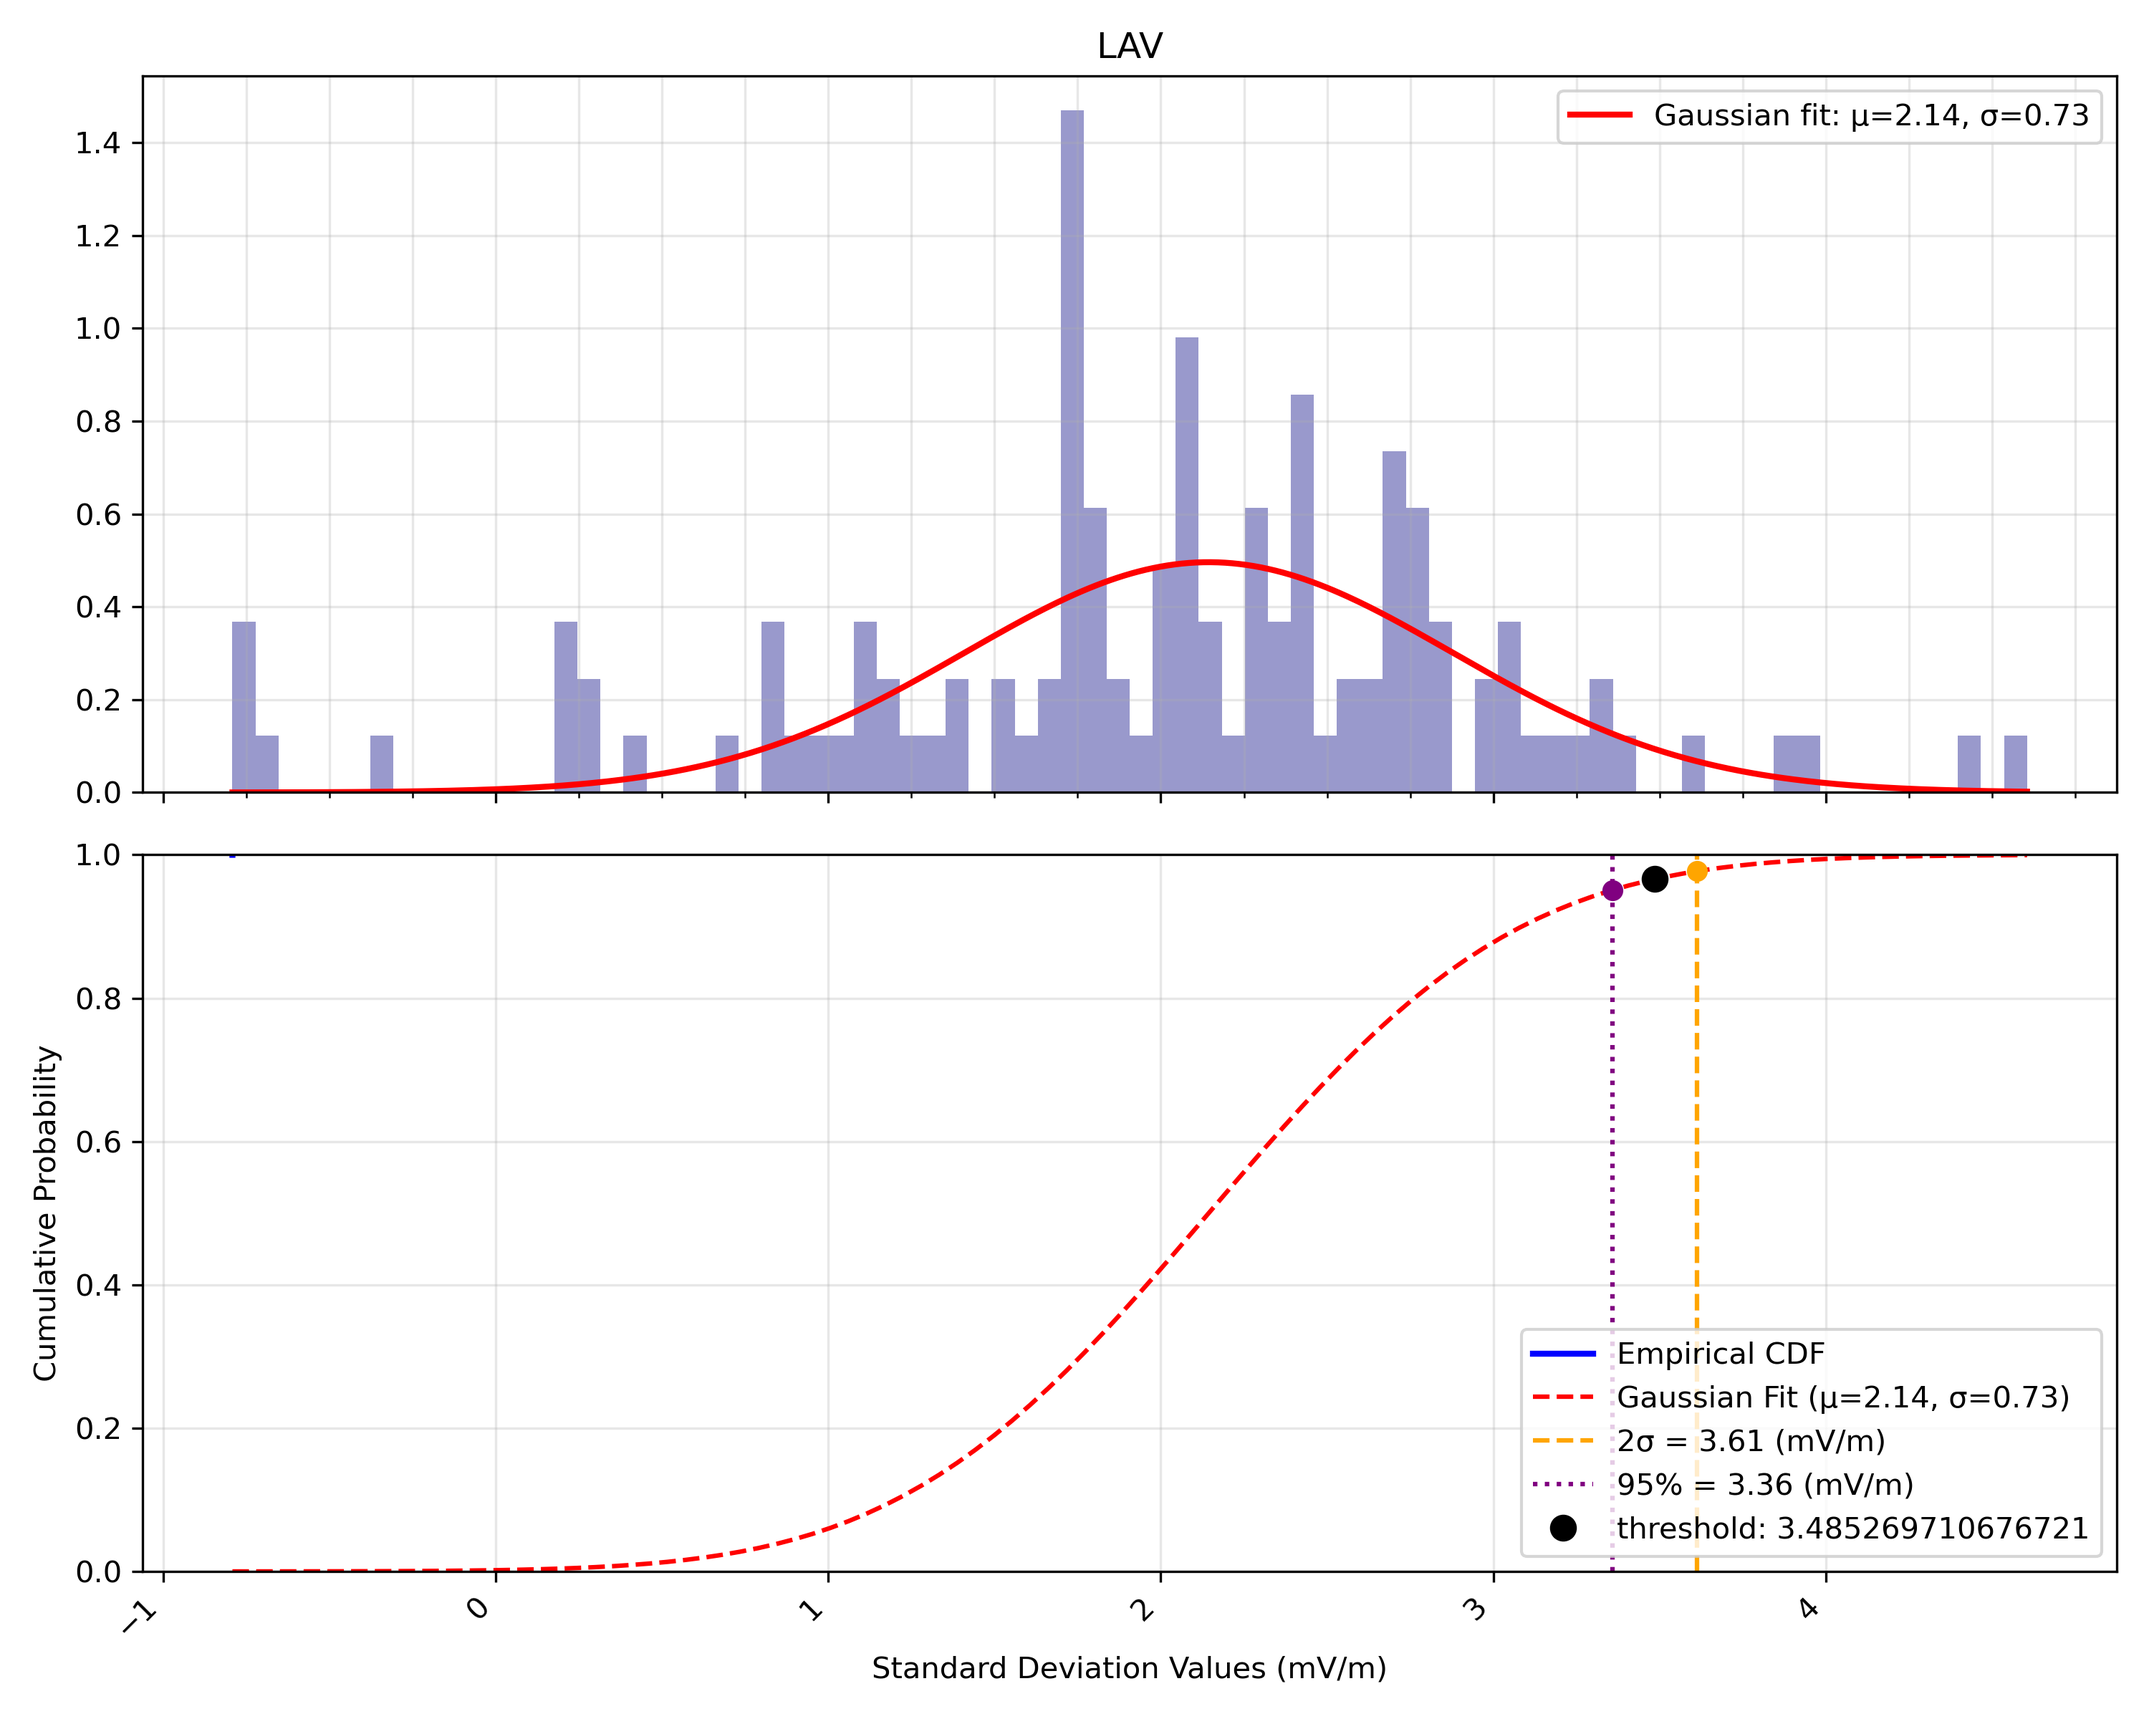
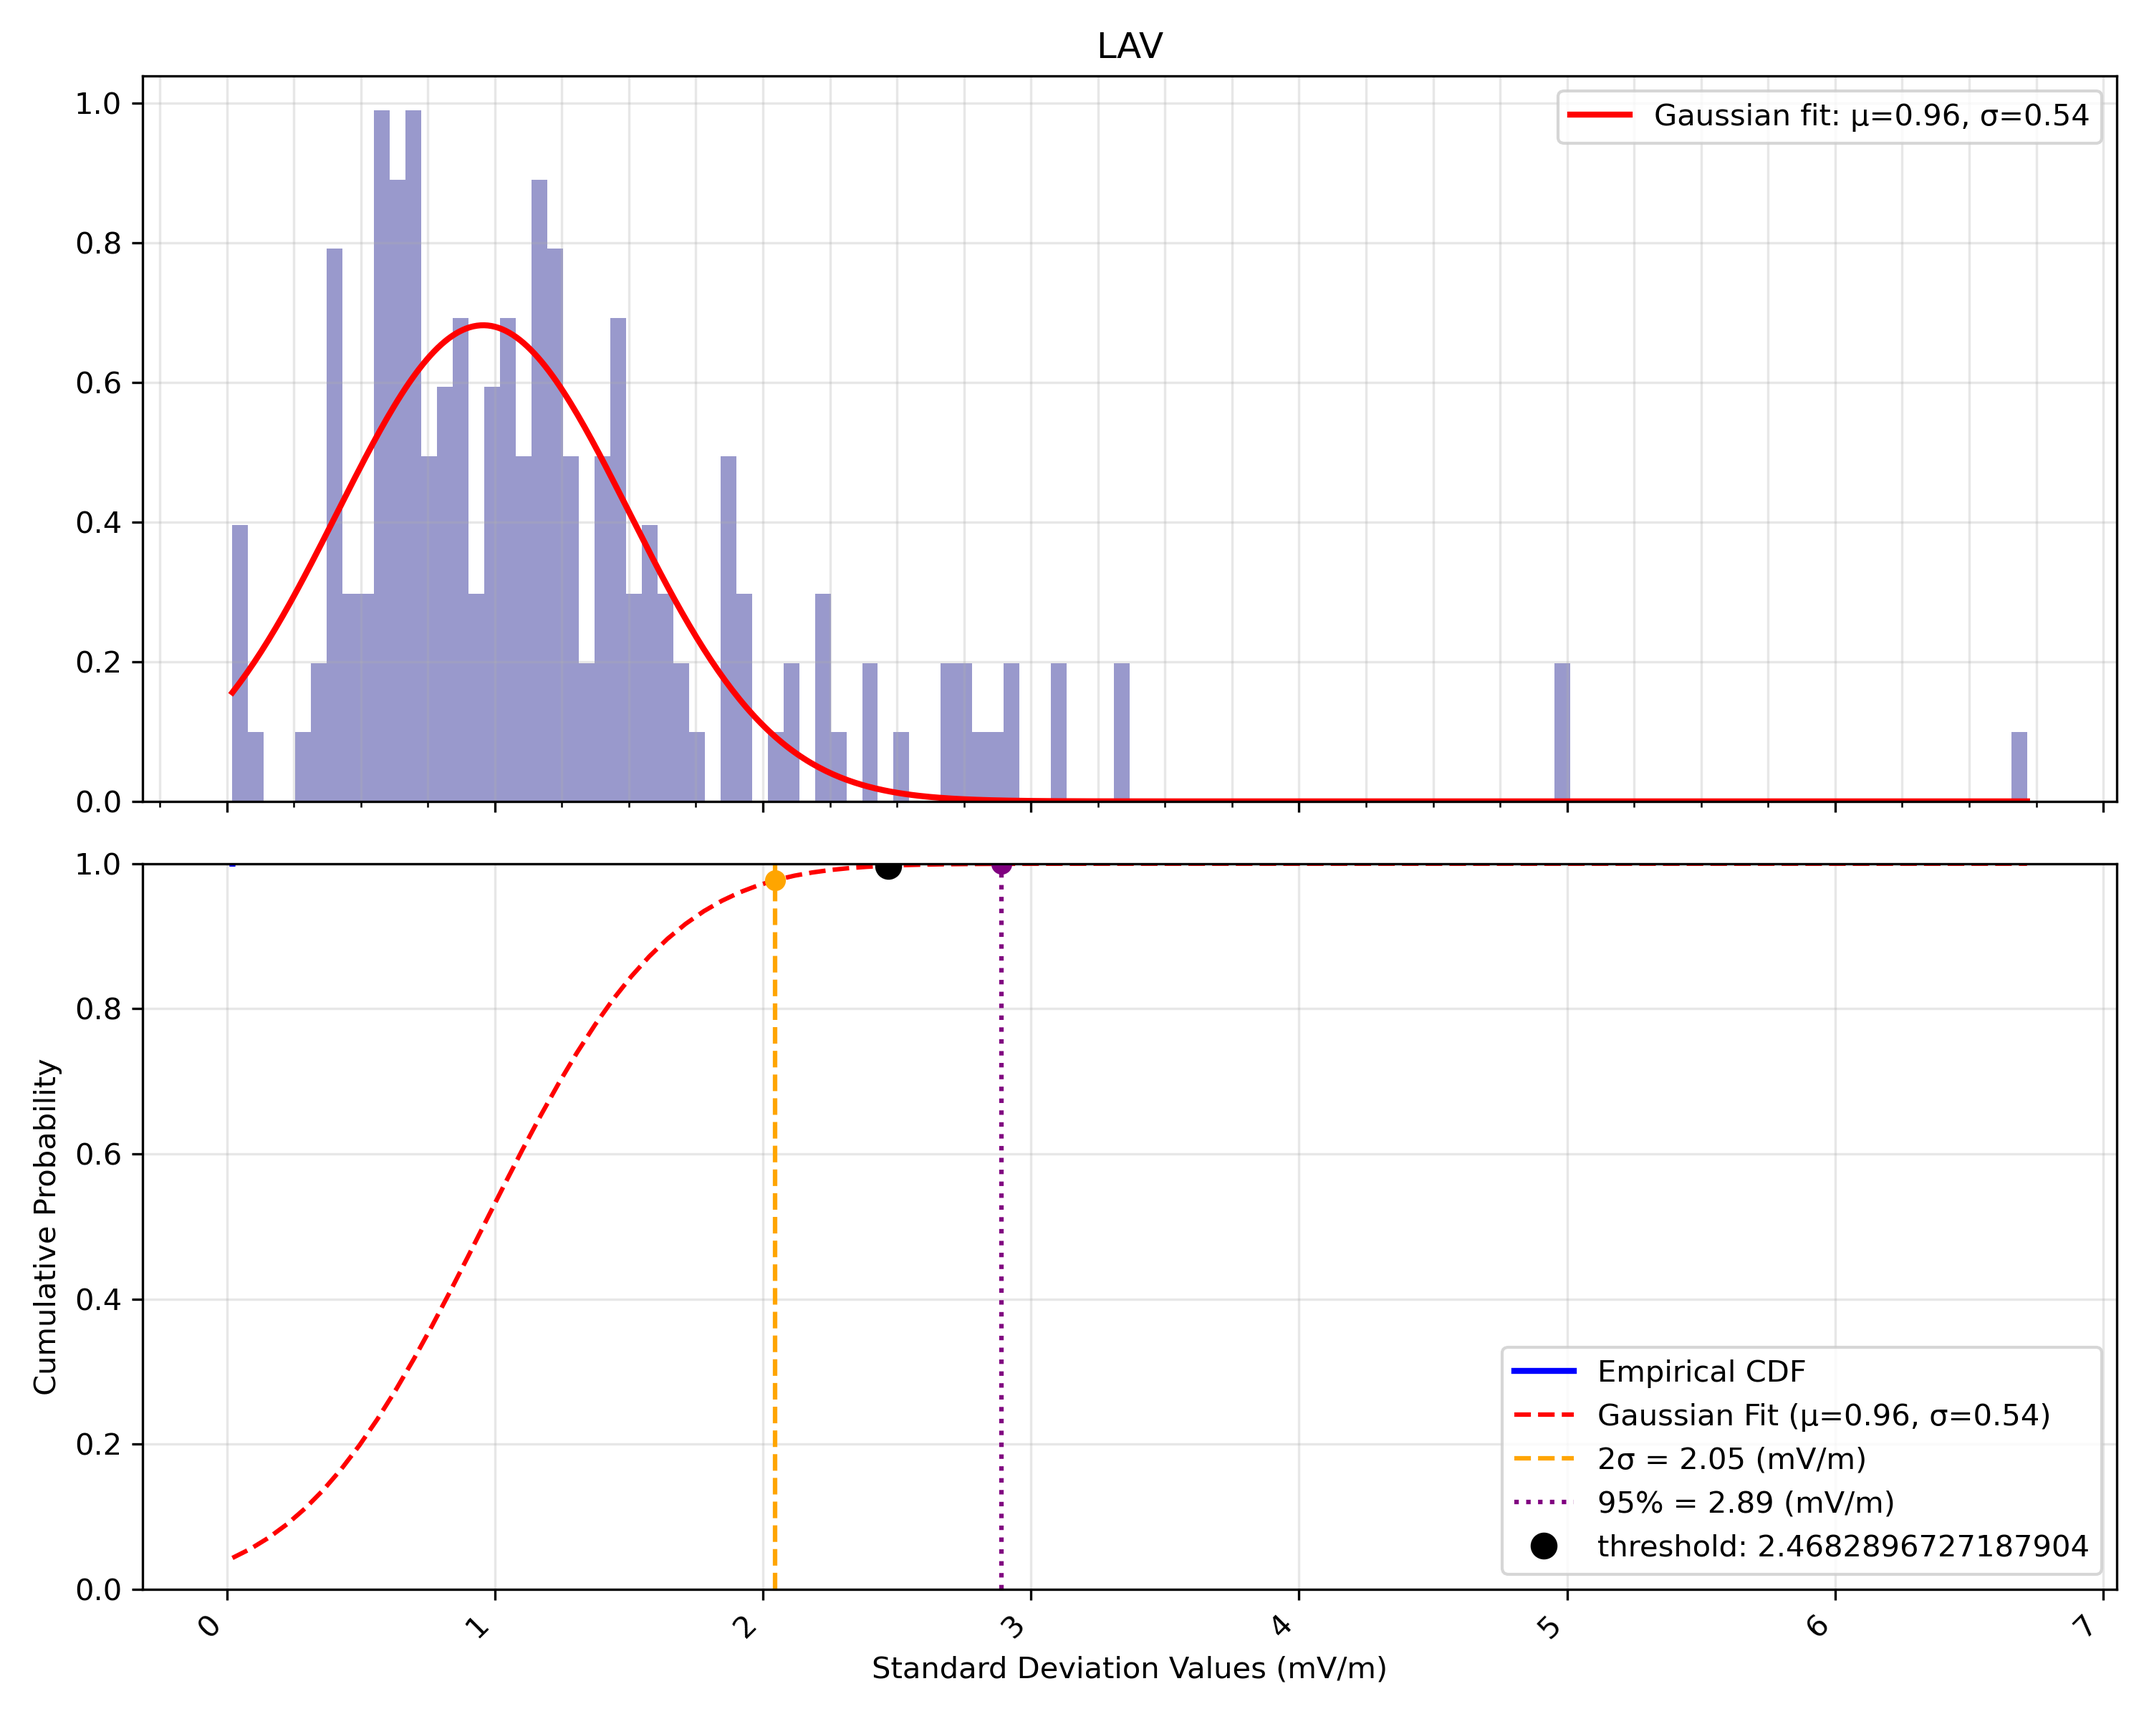
se comenzó a actualizar hacia GPD. Se cambiara a rama experimental

diff --git a/gic_process/gic_ev.py b/gic_process/gic_ev.py
@@ -159,7 +159,16 @@ if len(clicked_dates) >= 2:
                     (stat_dir[station].index <= fmt_end)
             zoom_data[station] = stat_dir[station][mask]
             
-            resampled_data = zoom_data[station].resample('15 min').max()
+            med = np.nanmedian(zoom_data[station])
+            std = np.nanstd(zoom_data[station])
+            print(f'median of zoom data: {med} \n stdev of zoom data: {std}')
+            if med >= 0+std/2 or med <= 0 - std/2:
+                zoom_data[station] = zoom_data[station] - med
+            else:
+                print('offset of zoom data in 0')
+            
+            gic_absval = abs(zoom_data[station])
+            resampled_data = gic_absval.resample('15 min').max()
             
             # Remove any remaining NaN values for threshold calculation
             clean_data = resampled_data.dropna()
@@ -167,6 +176,7 @@ if len(clicked_dates) >= 2:
             if len(clean_data) > 0:
                 print(f"Data for {station}")
 
+                
                 threshold_value, indices = threshold(clean_data, idate, fdate, station)
                     
                      
